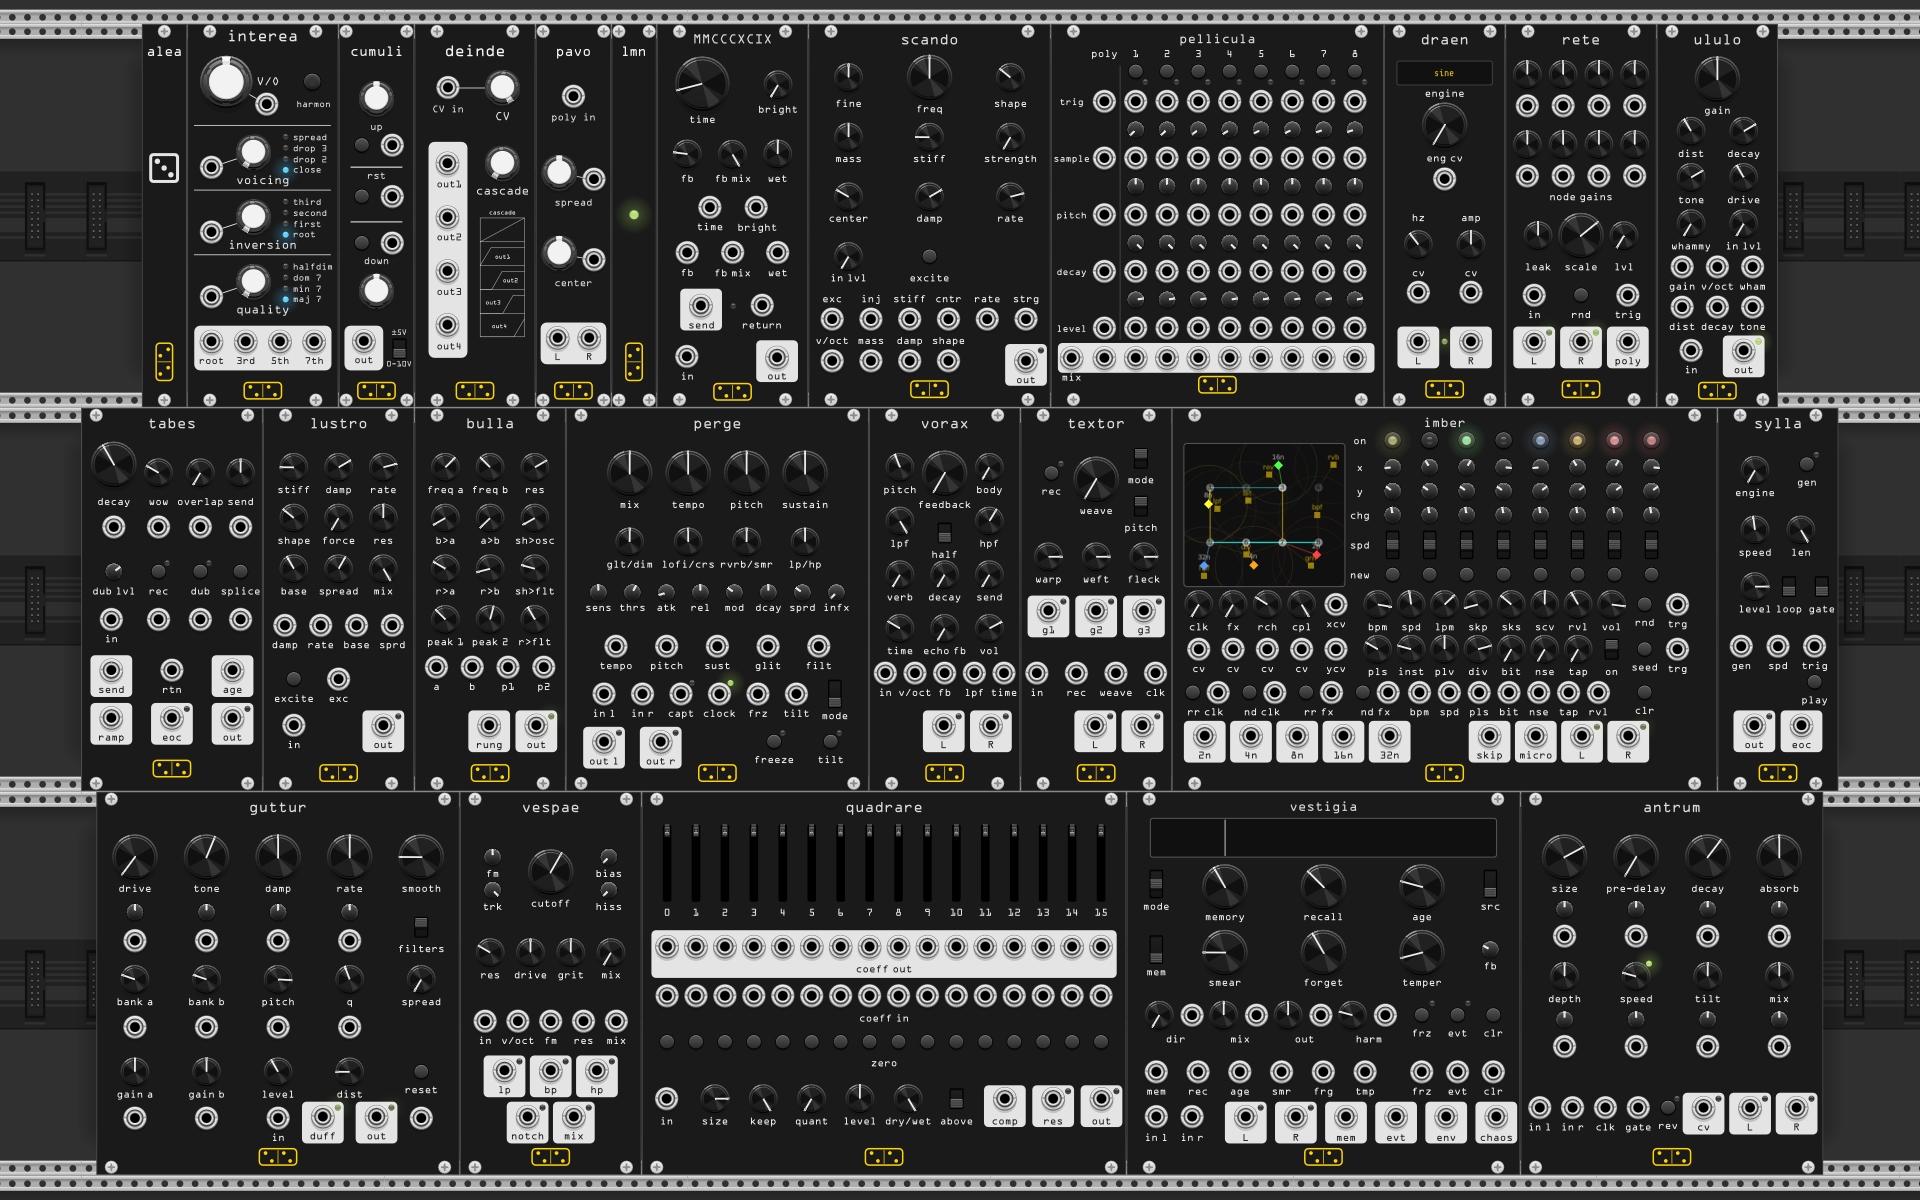
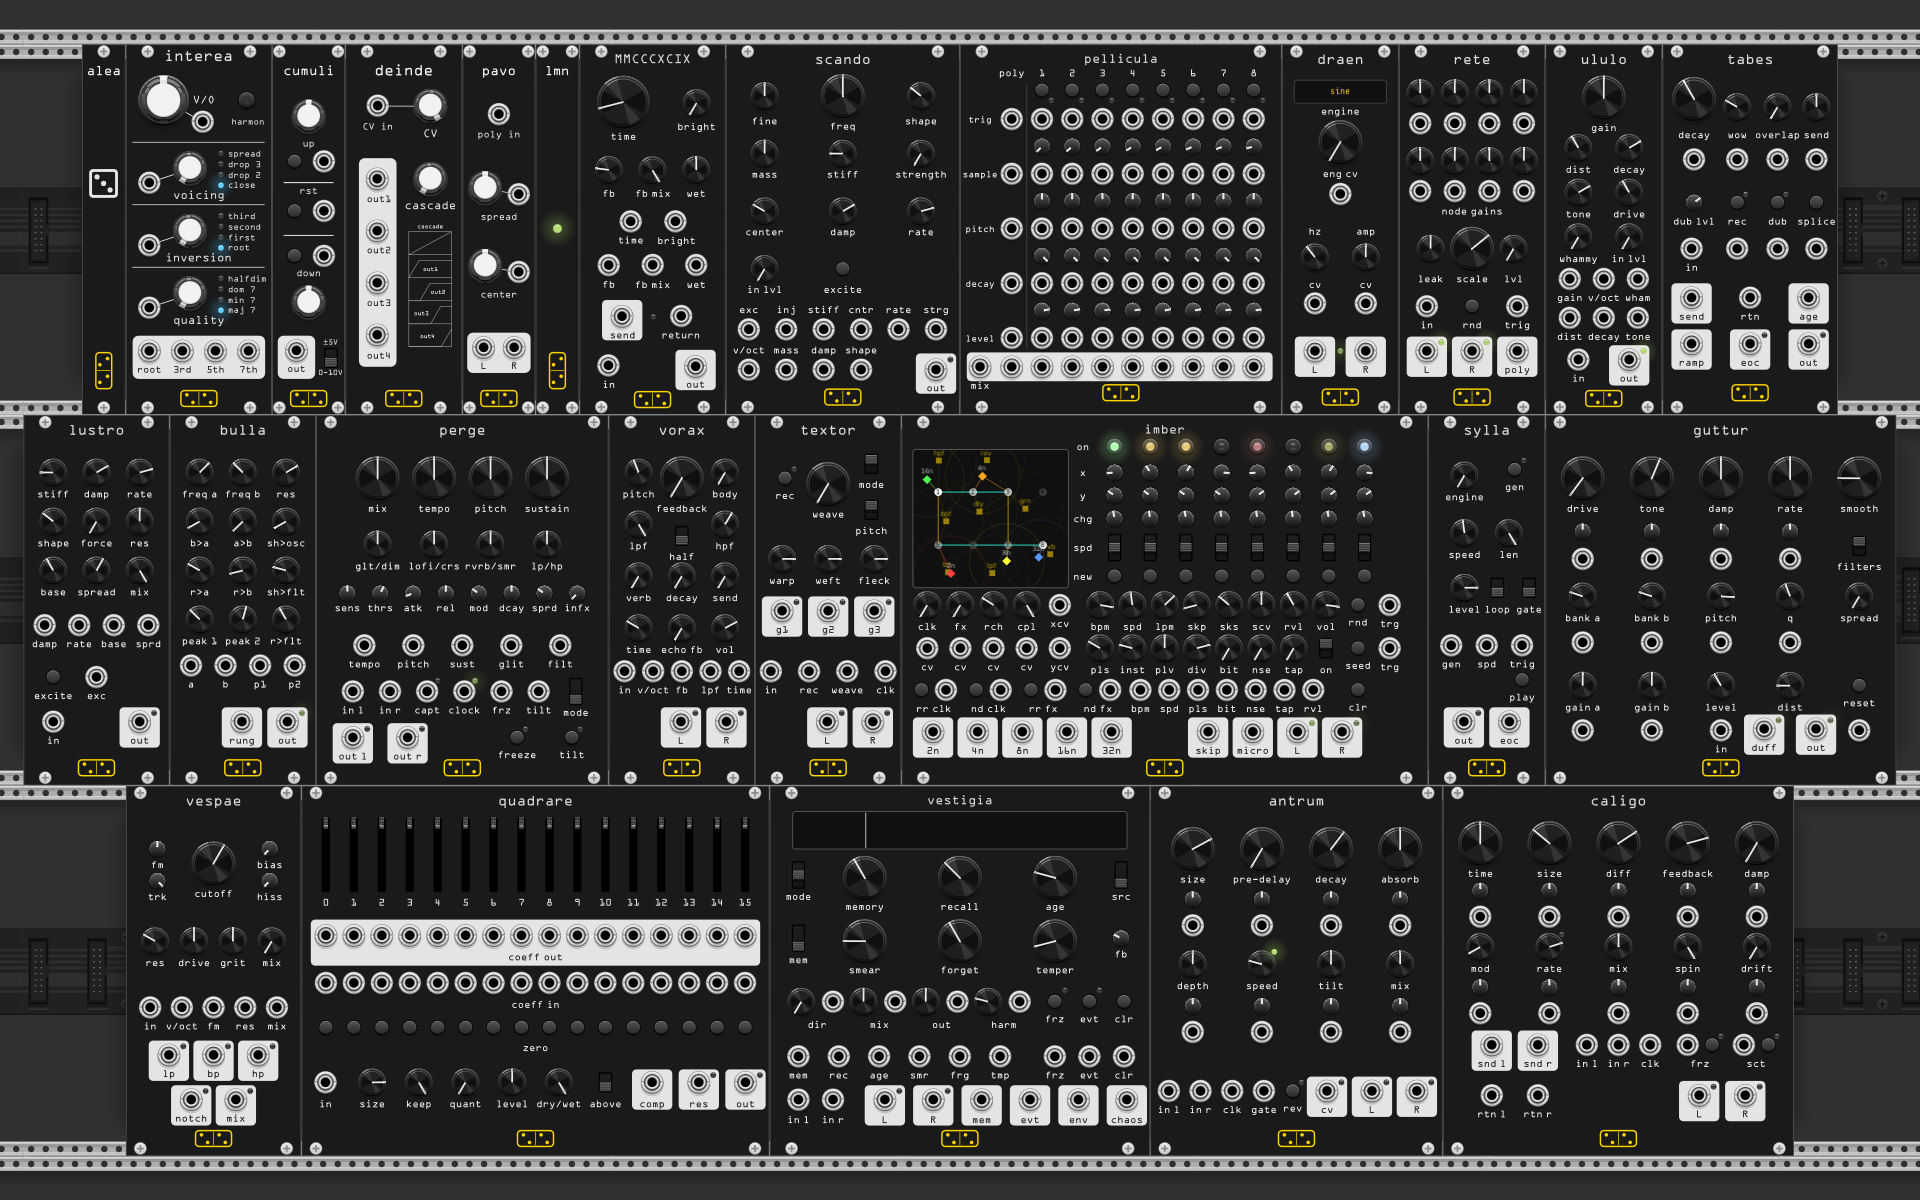
chore(img): relay the collection with caligo in it
Three rows again, 26 modules and 362 HP, with caligo closing the bottom row
next to antrum.

gen_collection.py now also turns Rack's parameter tooltips off in the
throwaway settings.json. The capture happens wherever the pointer happens to
be resting, and the first run of this put a "Recall source: Dry (input)"
tooltip across vestigia's panel.

diff --git a/tools/release/gen_collection.py b/tools/release/gen_collection.py
@@ -198,10 +198,14 @@ def temp_user_dir():
     os.makedirs(plugins)
     os.symlink(REPO, os.path.join(plugins, "forsitan"))
     # A first-run Rack greets you with the tips dialog, and would draw the CPU
-    # meter over the top-right module. Neither belongs in the picture.
+    # meter over the top-right module. Neither belongs in the picture. Nor does
+    # a parameter tooltip: the capture happens wherever the pointer happens to
+    # be resting, and if that is over a control Rack draws its tooltip on top
+    # of the panels.
     with open(os.path.join(userdir, "settings.json"), "w") as f:
         json.dump({"showTipsOnLaunch": False,
                    "cpuMeter": False,
+                   "tooltips": False,
                    "autoCheckUpdates": False}, f)
     return userdir
 
